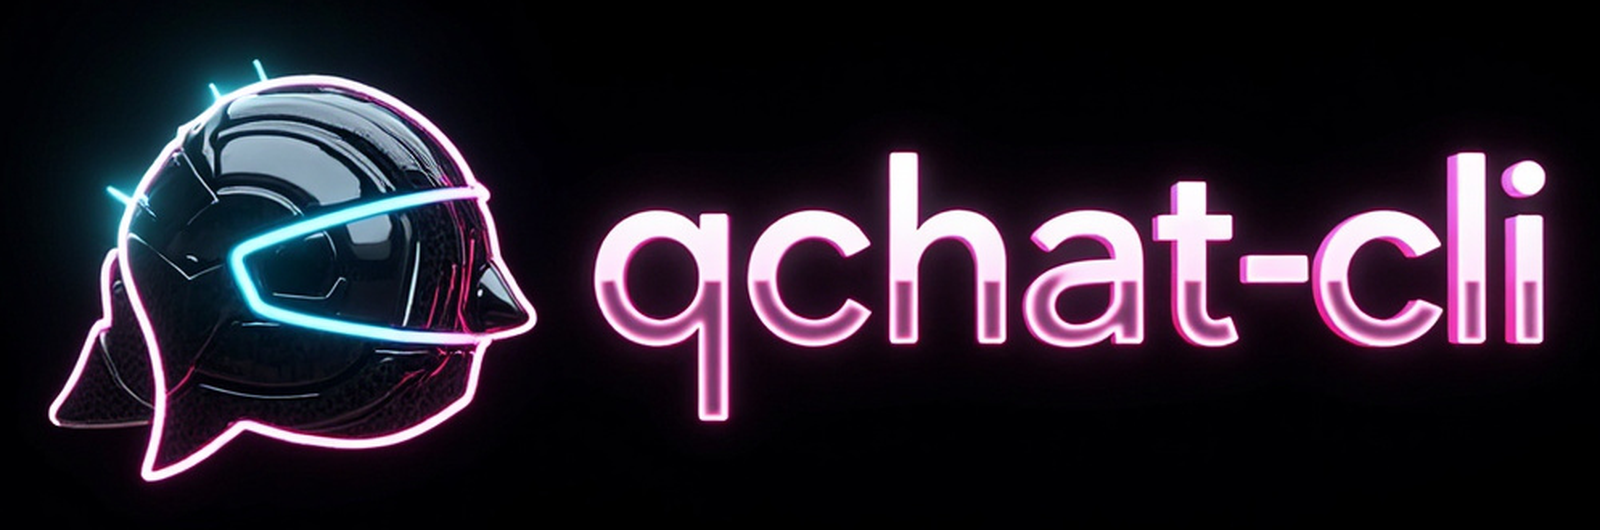
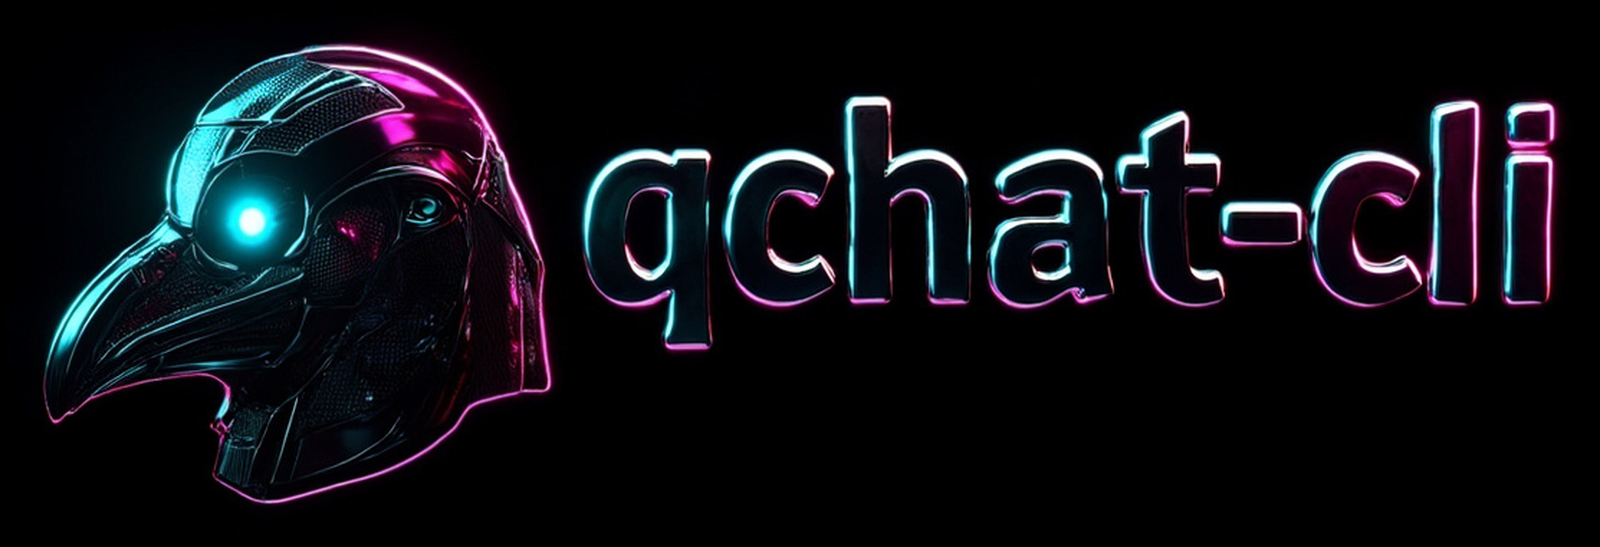
brand: 换成 v3（瘟疫医生鸟头+重铬边字）；架构图改赛博霓虹风 + 提示词存档
- brand.png ← logo-cp-3：鸟头面具 + 重霓虹/铬边字，跟 QQ 企鹅最不像
- architecture.png：换成霓虹青/品红/琥珀配色 + bloom 辉光，底图仍是 Model 出的赛博背景
  （框线和文字仍由 make-architecture.py 画——试了 4 版让模型连字一起画，
   8 个标签全崩、6 个中字六成对、3 个巨字才全对，架构图不能赌这个）
- docs/brand/prompts.md：品牌 5 版 + 架构 4 版提示词全文、逐版点评、改造建议
- scripts/build-brand-doc.py：从 prompts.jsonl 自动生成那份存档，避免手抄
- 修 minimax-image.mjs：--note 之前没排除，备注被拼进提示词一起发出去

diff --git a/scripts/build-brand-doc.py b/scripts/build-brand-doc.py
@@ -1,0 +1,108 @@
+import json
+import re
+import os
+
+src = 'output/gen/prompts.jsonl'
+rows = [json.loads(l) for l in open(src, encoding='utf-8') if l.strip()]
+
+def clean(r):
+    """早期版本 --note 没被排除，备注被拼进了提示词；渲染时剥掉。"""
+    p = r['prompt']
+    note = (r.get('note') or '').strip()
+    if note and p.endswith(note):
+        p = p[:-len(note)].rstrip()
+    return p
+
+logos = [r for r in rows if r['outputs'] and r['outputs'][0].startswith('logo-')]
+archs = [r for r in rows if r['outputs'] and r['outputs'][0].startswith('arch-ai')]
+
+logo_notes = {
+    'logo-cp-1': '细霓虹描边，字偏细，图标小',
+    'logo-cp-2': '胖赛博企鹅头 + 渐变字，最稳的一版',
+    'logo-cp-3': '★ 采用：重铬边字最好看 + 瘟疫医生鸟头，最不像 QQ',
+    'logo-cp-4': '字被裁掉，只剩 qchat（漏了 -cli）',
+    'logo-cp-5': '胖企鹅 + 完整九字符，字略轻',
+}
+
+arch_rows = {
+    'arch-ai-1': ('8 个模块名', '几乎全错：`ФС Sole 1`、`Ти Рюве` 这种鬼画符'),
+    'arch-ai-2': ('5 个短词', '一半对：NapCat ✅ HTTP ✅，但冒出 `OMS`、`W9`、`LCE`'),
+    'arch-ai-3': ('3 个巨字', '**全对**：NapCat / qce / storage，但只剩三个框，信息量不够'),
+    'arch-ai-4': ('6 个中字', '六成对：QQ→Q⑵、两个 WS、qce 重复，还冒乱码'),
+}
+
+out = []
+out.append('# 品牌图与架构图 · 提示词存档')
+out.append('')
+out.append('图都是 MiniMax `image-01` 生成的，**文字由模型自己画**，不再手工叠字。')
+out.append('')
+out.append('为什么要存提示词：生图上一次成不了，改字重、改配色、改构图全靠在同一句上微调；')
+out.append('丢了提示词就等于从头抽卡。每次 `node scripts/minimax-image.mjs` 都会自动追加到')
+out.append('`output/gen/prompts.jsonl`（时间 / 模型 / 比例 / 完整提示词 / 产物名），这份文档是它的可读版本。')
+out.append('')
+out.append('## 一、品牌图（logo + 文字）')
+out.append('')
+out.append('当前采用：**logo-cp-3** → `docs/images/brand.png`（裁掉四周纯黑，统一宽 1600）')
+out.append('')
+out.append('| 版本 | 结果 |')
+out.append('|---|---|')
+for r in logos:
+    name = r['outputs'][0].rsplit('.', 1)[0]
+    out.append(f"| {name} | {logo_notes.get(name, '')} |")
+out.append('')
+out.append('> 关键经验：**把字母一个一个念出来**（`letters q, c, h, a, t, hyphen, c, l, i`）')
+out.append('> 加上 `all nine characters fully visible, nothing cropped`，能明显减少截字。')
+out.append('> v4 就是漏了 `-cli` 三个字母。')
+out.append('')
+for r in logos:
+    name = r['outputs'][0].rsplit('.', 1)[0]
+    out.append(f"### {name}")
+    out.append('')
+    out.append(f"- 比例 `{r['aspect']}`　模型 `{r['model']}`　时间 {r['at']}")
+    out.append('')
+    out.append('```text')
+    out.append(clean(r))
+    out.append('```')
+    out.append('')
+
+out.append('---')
+out.append('')
+out.append('## 二、架构图：模型的文字能力不够，最后是混合方案')
+out.append('')
+out.append('连着试了几版让模型连文字一起画，结论很硬：**标签越多，符咒化越严重。**')
+out.append('')
+out.append('| 尝试 | 标签量 | 结果 |')
+out.append('|---|---|---|')
+for r in archs:
+    name = r['outputs'][0].rsplit('.', 1)[0]
+    q, res = arch_rows.get(name, ('?', '?'))
+    out.append(f'| {name} | {q} | {res} |')
+out.append('')
+out.append('**规律：字越大、个数越少，越准。** 三个巨字能全对，六个中字就开始精神污染。')
+out.append('')
+out.append('所以 `docs/images/architecture.png` 走的是分工方案：')
+out.append('')
+out.append('1. **底图**（赛博背景、光晕质感）→ MiniMax 生成')
+out.append('2. **霓虹框线 / 箭头 / 全部标签** → `scripts/make-architecture.py` 画，最后加 bloom 辉光')
+out.append('')
+out.append('模型管氛围，代码管事实。改组件名只要重跑脚本，不用重新抽卡。')
+out.append('')
+for r in archs:
+    name = r['outputs'][0].rsplit('.', 1)[0]
+    out.append(f"### {name}")
+    out.append('')
+    out.append('```text')
+    out.append(clean(r))
+    out.append('```')
+    out.append('')
+out.append('## 三、复用/改造建议')
+out.append('')
+out.append('- 换配色：只改颜色词（`cyan and magenta` → `acid green and violet`），构图别动。')
+out.append('- 换字重：只改 `ultra heavy display face` / `chunky bold` / `thin neon outline` 这一句。')
+out.append('- 一次只改一个变量，否则出问题看不出是哪个的锅。')
+out.append('- 中文别让模型画：偏旁必崩，要中文副标题就用 PIL 叠（见 `scripts/make-brand.py`）。')
+out.append('')
+
+os.makedirs('docs/brand', exist_ok=True)
+open('docs/brand/prompts.md', 'w', encoding='utf-8').write('\n'.join(out))
+print('wrote', len(out), 'lines')

diff --git a/scripts/make-architecture.py b/scripts/make-architecture.py
@@ -9,7 +9,7 @@
 产物：docs/images/architecture.png
 """
 import os
-from PIL import Image, ImageDraw, ImageFont
+from PIL import Image, ImageDraw, ImageFont, ImageFilter, ImageChops
 
 ROOT = os.path.dirname(os.path.dirname(os.path.abspath(__file__)))
 OUT = os.path.join(ROOT, "docs", "images", "architecture.png")
@@ -20,15 +20,15 @@ F_MONO = r"C:\Windows\Fonts\consola.ttf"
 
 W, H = 1680, 1220
 BG = (11, 18, 32)
-PANEL = (20, 30, 48)
-PANEL2 = (24, 36, 58)
-BORDER = (44, 62, 90)
+PANEL = (10, 12, 20)
+PANEL2 = (14, 18, 30)
+BORDER = (52, 70, 104)
 WHITE = (238, 244, 252)
 MUTED = (150, 170, 196)
-TEAL = (64, 224, 208)
-AMBER = (255, 196, 96)
-VIOLET = (166, 148, 255)
-PINK = (255, 128, 168)
+TEAL = (0, 255, 214)
+AMBER = (255, 191, 0)
+VIOLET = (186, 104, 255)
+PINK = (255, 42, 138)
 
 
 def font(path, size):
@@ -79,6 +79,12 @@ def background():
 
 def main():
     img = background()
+
+    # 发光层：所有线条先在透明层画一遍，模糊后叠回去，就是霓虹味。
+    # 直接在原图上画不出辉光，得单独画一层。
+    glow = Image.new("RGB", (W, H), (0, 0, 0))
+    dg = ImageDraw.Draw(glow)
+
     d = ImageDraw.Draw(img)
 
     f_h1 = font(F_BD, 44)
@@ -177,6 +183,11 @@ def main():
 
     # 外部服务角标
     d.text((70, 1180), "外部 API：千问视觉 · MiniMax image-01 · DeepSeek", font=font(F_RG, 17), fill=MUTED)
+
+    # 霓虹辉光：拿整张图糊一层再 screen 回去，亮线周围就有光晕。
+    # 比给每个框单独画外发光省事，观感也统一。
+    bloom = img.filter(ImageFilter.GaussianBlur(7))
+    img = ImageChops.screen(img, bloom)
 
     os.makedirs(os.path.dirname(OUT), exist_ok=True)
     img.save(OUT, "PNG", optimize=True)

diff --git a/docs/brand/prompts.md b/docs/brand/prompts.md
@@ -1,80 +1,109 @@
-# 品牌图提示词存档
+# 品牌图与架构图 · 提示词存档
 
-这张图（`docs/images/brand.png`）是 MiniMax `image-01` 生成的，**文字由模型自己画**。
+图都是 MiniMax `image-01` 生成的，**文字由模型自己画**，不再手工叠字。
 
-为什么要存提示词：生图这东西一次成不了，改风格、改字重、改配色全靠在同一句提示词上微调。
-丢了提示词等于从头再来。每次 `node scripts/minimax-image.mjs` 都会自动追加一份到
-`output/gen/prompts.jsonl`（含时间、模型、比例、完整提示词、产出文件名），这份文档是它的可读版本。
+为什么要存提示词：生图上一次成不了，改字重、改配色、改构图全靠在同一句上微调；
+丢了提示词就等于从头抽卡。每次 `node scripts/minimax-image.mjs` 都会自动追加到
+`output/gen/prompts.jsonl`（时间 / 模型 / 比例 / 完整提示词 / 产物名），这份文档是它的可读版本。
 
-## 当前采用：v5
+## 一、品牌图（logo + 文字）
 
-`docs/images/brand.png` ← `output/gen/logo-cp-5.jpg`（裁掉四周纯黑，统一宽 1600）
+当前采用：**logo-cp-3** → `docs/images/brand.png`（裁掉四周纯黑，统一宽 1600）
 
-> 关键收获：**把字母一个一个念出来**（"letters q, c, h, a, t, hyphen, c, l, i"）+
-> "all nine characters fully visible inside the frame, nothing cropped"，能明显降低截字/漏字的概率。
+| 版本 | 结果 |
+|---|---|
+| logo-cp-1 | 细霓虹描边，字偏细，图标小 |
+| logo-cp-2 | 胖赛博企鹅头 + 渐变字，最稳的一版 |
+| logo-cp-3 | ★ 采用：重铬边字最好看 + 瘟疫医生鸟头，最不像 QQ |
+| logo-cp-4 | 字被裁掉，只剩 qchat（漏了 -cli） |
+| logo-cp-5 | 胖企鹅 + 完整九字符，字略轻 |
+
+> 关键经验：**把字母一个一个念出来**（`letters q, c, h, a, t, hyphen, c, l, i`）
+> 加上 `all nine characters fully visible, nothing cropped`，能明显减少截字。
 > v4 就是漏了 `-cli` 三个字母。
-
-## 各版本对照
-
-| 版本 | 风格 | 结果 |
-|---|---|---|
-| logo-cp-1 | 细霓虹描边，字偏细，图标小 | 赛博朋克 logo+文字 第1版 |
-| logo-cp-2 | 胖赛博企鹅头 + 渐变字，最稳的一版 | 赛博朋克 v2：粗体块面字 + 大图标 |
-| logo-cp-3 | 重铬边字最好看，但图标变成了瘟疫医生鸟头 | 赛博朋克 v3：超粗工业字 + 3D 挤出 |
-| logo-cp-4 | 字被裁掉，只剩 qchat | 赛博朋克 v4：胖企鹅 + 重字重铬边（v2 的图标 + v3 的字） |
-| logo-cp-5 | ★ 采用：胖赛博企鹅 + 完整九字符 + 重霓虹描边 | 赛博朋克 v5：胖企鹅 + 完整九字符 |
-
-## 逐版提示词
 
 ### logo-cp-1
 
-- 比例：`16:9`　模型：`image-01`　时间：2026-11-12T04:44:19.241Z
-- 备注：赛博朋克 logo+文字 第1版
+- 比例 `16:9`　模型 `image-01`　时间 2026-11-12T04:44:19.241Z
 
 ```text
-Cyberpunk neon logo lockup on pure black background: on the left a stylized robotic penguin head icon made of chrome and circuit traces, glowing neon cyan and magenta rim light, subtle glitch scanlines; on the right the wordmark 'qchat-cli' in bold angular futuristic techno lettering with neon outline and slight chromatic aberration, perfectly spelled; only the icon and the wordmark, nothing else, generous empty space, high contrast, sharp vector-like rendering, 16:9 wide composition 赛博朋克 logo+文字 第1版
+Cyberpunk neon logo lockup on pure black background: on the left a stylized robotic penguin head icon made of chrome and circuit traces, glowing neon cyan and magenta rim light, subtle glitch scanlines; on the right the wordmark 'qchat-cli' in bold angular futuristic techno lettering with neon outline and slight chromatic aberration, perfectly spelled; only the icon and the wordmark, nothing else, generous empty space, high contrast, sharp vector-like rendering, 16:9 wide composition
 ```
 
 ### logo-cp-2
 
-- 比例：`3:2`　模型：`image-01`　时间：2026-11-12T04:44:54.255Z
-- 备注：赛博朋克 v2：粗体块面字 + 大图标
+- 比例 `3:2`　模型 `image-01`　时间 2026-11-12T04:44:54.255Z
 
 ```text
-Cyberpunk logo lockup, 3:2 composition, pure black background. Left: a large glowing cybernetic penguin head built from brushed chrome panels and neon circuit seams, cyan and magenta rim light, tiny glitch pixels. Right: the wordmark 'qchat-cli' in a CHUNKY BOLD angular display typeface with thick slab strokes, metallic chrome fill, hot magenta and cyan neon outline, subtle chromatic aberration; bold poster-like typography, perfectly spelled, tightly kerned. Only icon and wordmark, balanced spacing, sharp, high contrast, no extra text 赛博朋克 v2：粗体块面字 + 大图标
+Cyberpunk logo lockup, 3:2 composition, pure black background. Left: a large glowing cybernetic penguin head built from brushed chrome panels and neon circuit seams, cyan and magenta rim light, tiny glitch pixels. Right: the wordmark 'qchat-cli' in a CHUNKY BOLD angular display typeface with thick slab strokes, metallic chrome fill, hot magenta and cyan neon outline, subtle chromatic aberration; bold poster-like typography, perfectly spelled, tightly kerned. Only icon and wordmark, balanced spacing, sharp, high contrast, no extra text
 ```
 
 ### logo-cp-3
 
-- 比例：`16:9`　模型：`image-01`　时间：2026-11-12T04:45:26.724Z
-- 备注：赛博朋克 v3：超粗工业字 + 3D 挤出
+- 比例 `16:9`　模型 `image-01`　时间 2026-11-12T04:45:26.724Z
 
 ```text
-Cyberpunk logo lockup on black, 16:9. Left: cybernetic penguin head, chrome and carbon fiber, glowing cyan eye visor, magenta rim light, thin circuit lines. Right: 'qchat-cli' set in an ULTRA HEAVY BRUTALIST display face, thick squared strokes with cut corners and stencil gaps, chrome extrusion with bright cyan edge light and faint magenta glow, tight tracking, poster-grade typography, perfectly spelled. Nothing else in frame, dramatic contrast, crisp, high detail 赛博朋克 v3：超粗工业字 + 3D 挤出
+Cyberpunk logo lockup on black, 16:9. Left: cybernetic penguin head, chrome and carbon fiber, glowing cyan eye visor, magenta rim light, thin circuit lines. Right: 'qchat-cli' set in an ULTRA HEAVY BRUTALIST display face, thick squared strokes with cut corners and stencil gaps, chrome extrusion with bright cyan edge light and faint magenta glow, tight tracking, poster-grade typography, perfectly spelled. Nothing else in frame, dramatic contrast, crisp, high detail
 ```
 
 ### logo-cp-4
 
-- 比例：`16:9`　模型：`image-01`　时间：2026-11-12T04:45:59.268Z
-- 备注：赛博朋克 v4：胖企鹅 + 重字重铬边（v2 的图标 + v3 的字）
+- 比例 `16:9`　模型 `image-01`　时间 2026-11-12T04:45:59.268Z
 
 ```text
-Cyberpunk logo lockup on pure black, 16:9. Left: a CHUBBY cybernetic PENGUIN head (round body, small beak, glowing single cyan visor eye), black carbon-fiber panels with magenta neon seams, chrome highlights, thin circuit traces. Right: 'qchat-cli' in an ultra heavy rounded-square display face with chrome bevel and dual neon outline (cyan outside, magenta inside), tight tracking, poster-grade, perfectly spelled. Only the penguin head and the wordmark, nothing else, dramatic rim lighting, crisp edges, high contrast 赛博朋克 v4：胖企鹅 + 重字重铬边（v2 的图标 + v3 的字）
+Cyberpunk logo lockup on pure black, 16:9. Left: a CHUBBY cybernetic PENGUIN head (round body, small beak, glowing single cyan visor eye), black carbon-fiber panels with magenta neon seams, chrome highlights, thin circuit traces. Right: 'qchat-cli' in an ultra heavy rounded-square display face with chrome bevel and dual neon outline (cyan outside, magenta inside), tight tracking, poster-grade, perfectly spelled. Only the penguin head and the wordmark, nothing else, dramatic rim lighting, crisp edges, high contrast
 ```
 
 ### logo-cp-5
 
-- 比例：`16:9`　模型：`image-01`　时间：2026-11-12T04:46:30.967Z
-- 备注：赛博朋克 v5：胖企鹅 + 完整九字符
+- 比例 `16:9`　模型 `image-01`　时间 2026-11-12T04:46:30.967Z
 
 ```text
-Cyberpunk logo lockup on pure black, wide 16:9. Left: chubby cybernetic PENGUIN head, black carbon panels, glowing cyan visor, magenta neon seams, chrome accents. Right: the FULL wordmark reading exactly 'qchat-cli' — letters q, c, h, a, t, hyphen, c, l, i — in an ultra heavy display face with chrome bevel and dual neon outline, all nine characters fully visible inside the frame, tight tracking, poster-grade typography, perfectly spelled, nothing cropped. Only penguin head and wordmark, dramatic rim light, crisp 赛博朋克 v5：胖企鹅 + 完整九字符
+Cyberpunk logo lockup on pure black, wide 16:9. Left: chubby cybernetic PENGUIN head, black carbon panels, glowing cyan visor, magenta neon seams, chrome accents. Right: the FULL wordmark reading exactly 'qchat-cli' — letters q, c, h, a, t, hyphen, c, l, i — in an ultra heavy display face with chrome bevel and dual neon outline, all nine characters fully visible inside the frame, tight tracking, poster-grade typography, perfectly spelled, nothing cropped. Only penguin head and wordmark, dramatic rim light, crisp
 ```
 
-## 复用/改造建议
+---
 
-- 想换配色：只改颜色词（`cyan and magenta` → `acid green and violet`），其余别动，构图会跟着乱。
-- 想换字体重量：改 `ultra heavy display face` / `chunky bold` / `thin neon outline` 这一句，
-  别同时改构图，否则一版里两个变量，看不出是哪个起的作用。
-- 想换比例：`--ar` 改就好，但 16:9 下字符最容易被裁，宽图要在提示词里强调 "nothing cropped"。
-- 想加副标题：中文别让模型画（偏旁必崩），用 `scripts/make-brand.py` 那种 PIL 叠字更靠谱。
+## 二、架构图：模型的文字能力不够，最后是混合方案
+
+连着试了几版让模型连文字一起画，结论很硬：**标签越多，符咒化越严重。**
+
+| 尝试 | 标签量 | 结果 |
+|---|---|---|
+| arch-ai-2 | 5 个短词 | 一半对：NapCat ✅ HTTP ✅，但冒出 `OMS`、`W9`、`LCE` |
+| arch-ai-3 | 3 个巨字 | **全对**：NapCat / qce / storage，但只剩三个框，信息量不够 |
+| arch-ai-4 | 6 个中字 | 六成对：QQ→Q⑵、两个 WS、qce 重复，还冒乱码 |
+
+**规律：字越大、个数越少，越准。** 三个巨字能全对，六个中字就开始精神污染。
+
+所以 `docs/images/architecture.png` 走的是分工方案：
+
+1. **底图**（赛博背景、光晕质感）→ MiniMax 生成
+2. **霓虹框线 / 箭头 / 全部标签** → `scripts/make-architecture.py` 画，最后加 bloom 辉光
+
+模型管氛围，代码管事实。改组件名只要重跑脚本，不用重新抽卡。
+
+### arch-ai-2
+
+```text
+Clean futuristic technical architecture diagram on pure black background, vertical flow, neon cyan outlined rounded boxes connected by thin glowing arrows, flat vector infographic, generous spacing. Exactly five text labels and nothing else, each spelled exactly as given: 'QQ' in the top box, 'NapCat' in the wide box below it, 'HTTP' and 'WS' in two small boxes side by side under NapCat, 'qce' in a large panel below them. The qce panel contains six small empty rounded squares with no writing. Under the panel, three empty boxes connected by arrows, no writing inside them. All text small, crisp, plain sans-serif English, no gibberish, no random letters, no extra words, dark cyberpunk palette
+```
+
+### arch-ai-3
+
+```text
+Minimal cyberpunk system diagram on black, HORIZONTAL flow left to right, wide 16:9 composition filling the frame. Three large glowing neon rounded rectangles in a row, connected by thick glowing arrows. VERY LARGE bold sans-serif white labels centered in each box, exactly these three words: 'NapCat' in the first box, 'qce' in the second box, 'storage' in the third box. Below the second box, three small empty neon outlines (no text). Nothing else in the frame, no other words, no gibberish, no numbers, crisp vector, high contrast, generous fill of the canvas
+```
+
+### arch-ai-4
+
+```text
+Cyberpunk layered architecture diagram on black, portrait-ish layout filling the whole 16:9 frame, six glowing neon boxes connected by glowing arrows top to bottom. Each box has ONE large bold sans-serif white word, spelled exactly: top box 'QQ', second wide box 'NapCat', two small boxes under it 'HTTP' and 'WS', one large panel 'qce', and at the bottom 'storage'. Inside the qce panel only empty neon squares with no text. Large legible typography, the words big enough to read at a glance, no other words, no numbers, no gibberish, crisp vector neon lines, balanced composition that fills the canvas
+```
+
+## 三、复用/改造建议
+
+- 换配色：只改颜色词（`cyan and magenta` → `acid green and violet`），构图别动。
+- 换字重：只改 `ultra heavy display face` / `chunky bold` / `thin neon outline` 这一句。
+- 一次只改一个变量，否则出问题看不出是哪个的锅。
+- 中文别让模型画：偏旁必崩，要中文副标题就用 PIL 叠（见 `scripts/make-brand.py`）。
